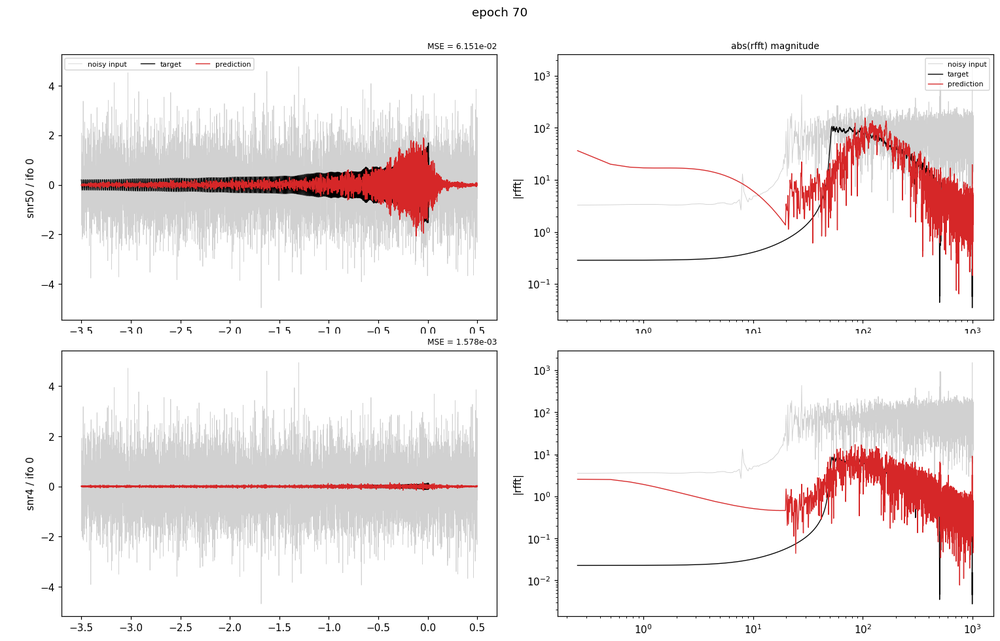
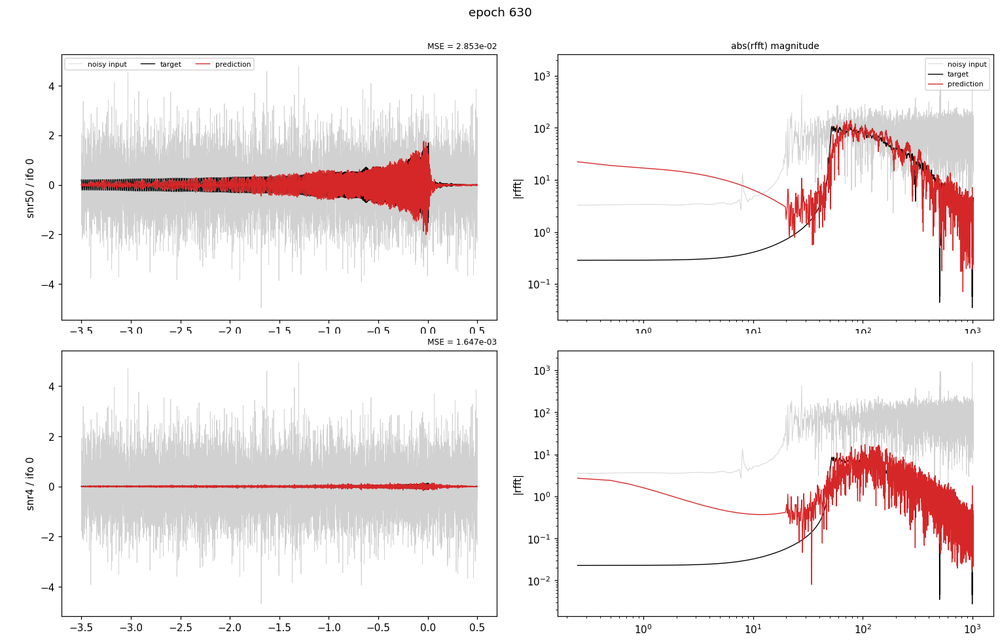
Add the epoch-630 test of the Project 8 recipe on BNS; refresh live runs

diff --git a/docs/_updates/2026-10-05-recipe-at-epoch-630.md b/docs/_updates/2026-10-05-recipe-at-epoch-630.md
@@ -1,0 +1,72 @@
+---
+title: The Project 8 recipe at epoch 630
+date: 2026-10-05
+summary: >-
+  Tested on the same power-law population as the baseline, the larger joint
+  model is clearly better between SNR 8 and 25 and unchanged below 8, where
+  most events are. Its uncertainties are well calibrated. Mass ratio is barely
+  learned at any SNR.
+---
+
+The run started on [1 October]({{ '/projects/bns/updates/2026-10-01-recipe-on-bns/' | relative_url }})
+reached epoch 630 of 800. Its latest checkpoint was tested on the usual
+power-law set: O3b background, SNR following a power law with index −3 on 4 to
+50, and half the samples pure background.
+
+## Chirp mass against the baseline
+
+| SNR | within 2%, this run | within 2%, baseline 128/4 | within 5%, this run | within 5%, baseline |
+|---|---|---|---|---|
+| 4 to 6 | 6% | 5% | 13% | 12% |
+| 6 to 8 | 7% | 8% | 20% | 18% |
+| 8 to 12 | 20% | 17% | 42% | 36% |
+| 12 to 16 | 53% | 42% | 80% | 67% |
+| 16 to 25 | 82% | 78% | 97% | 93% |
+| 25 to 50 | 94% | 97% | 100% | 100% |
+
+The gain is real but sits in the middle of the SNR range. Below SNR 8 nothing
+moved: the estimate is still close to the prior there, as before. The z-score
+spread is 0.99, so the reported uncertainties match the actual errors, and the
+uncertainty-based detection AUC is 0.62, the same as the baseline.
+
+<div class="plot-pair">
+{% include figure.html
+   src="/assets/img/bns/2026-10-05/chirp_mass_frac_within_vs_snr.png"
+   alt="Fraction of events within 1, 2, 5 and 10 percent of the true chirp mass against SNR, epoch 630"
+   label="Chirp mass accuracy against SNR"
+   caption="Fraction of test events within a relative error, per SNR bin." %}
+{% include figure.html
+   src="/assets/img/bns/2026-10-05/chirp_mass_pred_vs_true_snr4-50.png"
+   alt="Predicted against true chirp mass with a one-sigma band, epoch 630"
+   label="Chirp mass, predicted against true"
+   caption="Median and 1σ band over the power-law test set." %}
+</div>
+
+## Mass ratio
+
+Mass ratio is barely learned. 33% of events are within 10%, against 27%
+within 10% at SNR 4 to 8, and only 41% even above SNR 16. It is a much weaker
+imprint on the waveform than chirp mass. The uncertainties are again honest
+(z-score spread 0.98), so the model knows it does not know.
+
+<div class="plot-pair">
+{% include figure.html
+   src="/assets/img/bns/2026-10-05/mass_ratio_pred_vs_true_snr4-50.png"
+   alt="Predicted against true mass ratio with a one-sigma band, epoch 630"
+   label="Mass ratio, predicted against true"
+   caption="Close to the prior across the range." %}
+{% include figure.html
+   src="/assets/img/bns/2026-10-05/chirp_mass_sigma_sig_vs_bkg.png"
+   alt="Distribution of predicted chirp-mass uncertainty for signals and for noise-only inputs, epoch 630"
+   label="Uncertainty, signal and noise"
+   caption="Predicted chirp-mass σ for signals and for pure background." %}
+</div>
+
+<p class="note"><strong>A validation caveat.</strong> This run validates on the
+training population, a power law with index −2, so its validation numbers
+look better than this test (18% within 1% in validation, against 8% here).
+Reweighting the test to index −2 reproduces the validation figures. Future runs
+validate on index −3.</p>
+
+A sensitive-volume measurement from this checkpoint, with −σ as the statistic
+and one week of background, is in progress.
